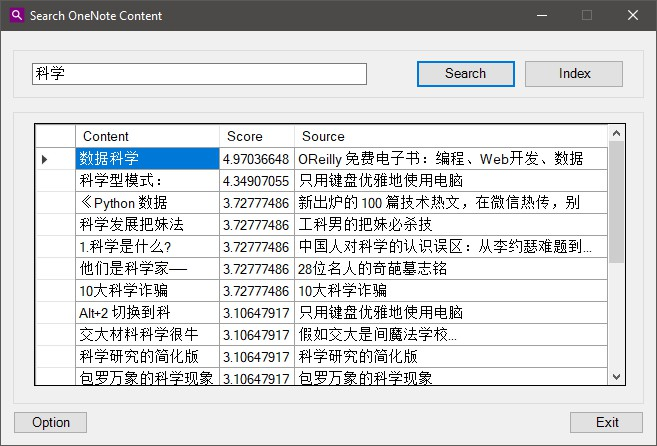
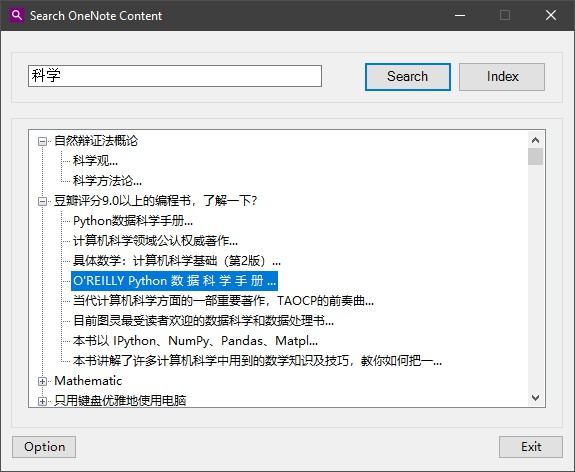
Update readme.

diff --git a/README.md b/README.md
@@ -1,28 +1,39 @@
 # Introduction
-It is so embrassing that the text search feature in Microsoft OneNote is crappy! OneNote just do a text matching over all the pages and return the exact result to handle the query. That's why I want to use Lucene.NET to enhance it.  
+Enchance OneNote Search Functionality with Lucene.Net.  
 This application aims to reimplement all functionallity of [OneNote Search Bar](https://www.onenotegem.com/onenote-search-bar.html)  
 
 # Prerequisite
-Lucene.Net 3.0.3  
-Visual Studio 2017
+Lucene.Net 4.8.0  
+Lucene.Net.Queries  
+Lucene.Net.Analysis.Common  
+Lucene.Net.Analysis.SmartCn  
+Lucene.Net.QueryParser  
+SharpZipLib  
+HtmlAgilityPack  
+System.ValueTuple
+Visual Studio 2019  
 
 # Manual
 ## Installation
 Please download latest release file and unzip it. Then click `setup.exe` to install.
-## First start
+## Index
 You can find this application in Start menu. Click to launch. You will see a simple user interface.
 Click `Index` button and wait, it will index all page content for you.
 
-![Alt text](docs/images/Index.jpg "Title")
+![Alt text](docs/images/Index.jpg "Index Image")
 ## Search
-After finish indexing, type anything you want in search box and click `Search` button. It will accept your query and return top 10 relevant paragraph.
+After finish indexing, type anything you want in search box and click `Search` button. It will accept your query and return relevant paragraph.
 
-![Alt text](docs/images/Search.jpg "Title")  
+![Alt text](docs/images/Search.jpg "Search Image")  
 You can navigate to page where the paragraph from, just double click the row. The target page will display in OneNote.
+
+## Options
+You can change your search result appearance, index cache path, index mode in this page.  
+![Alt text](docs/images/Option.jpg "Options Image")  
 
 # Roadmap
 - [x] Search and List Pages: Search pages in OneNote, and list pages.
-- [ ] Search and List Paragraphs: Search and list paragraphs and highlight the keyword.
+- [x] Search and List Paragraphs: Search and list paragraphs and highlight the keyword.
 - [ ] Search and List Paragraphs with Tag Icons: If search result is a tag paragraph, "Search Bar" list this paragraph with its tag icon.
 - [ ] Search and List Paragraphs with Heading Icons: If search result is a heading paragraph, "Search Bar" list this paragraph with heading icon ( 1 - 6 ).
 - [x] Search and List Image OCR Text
